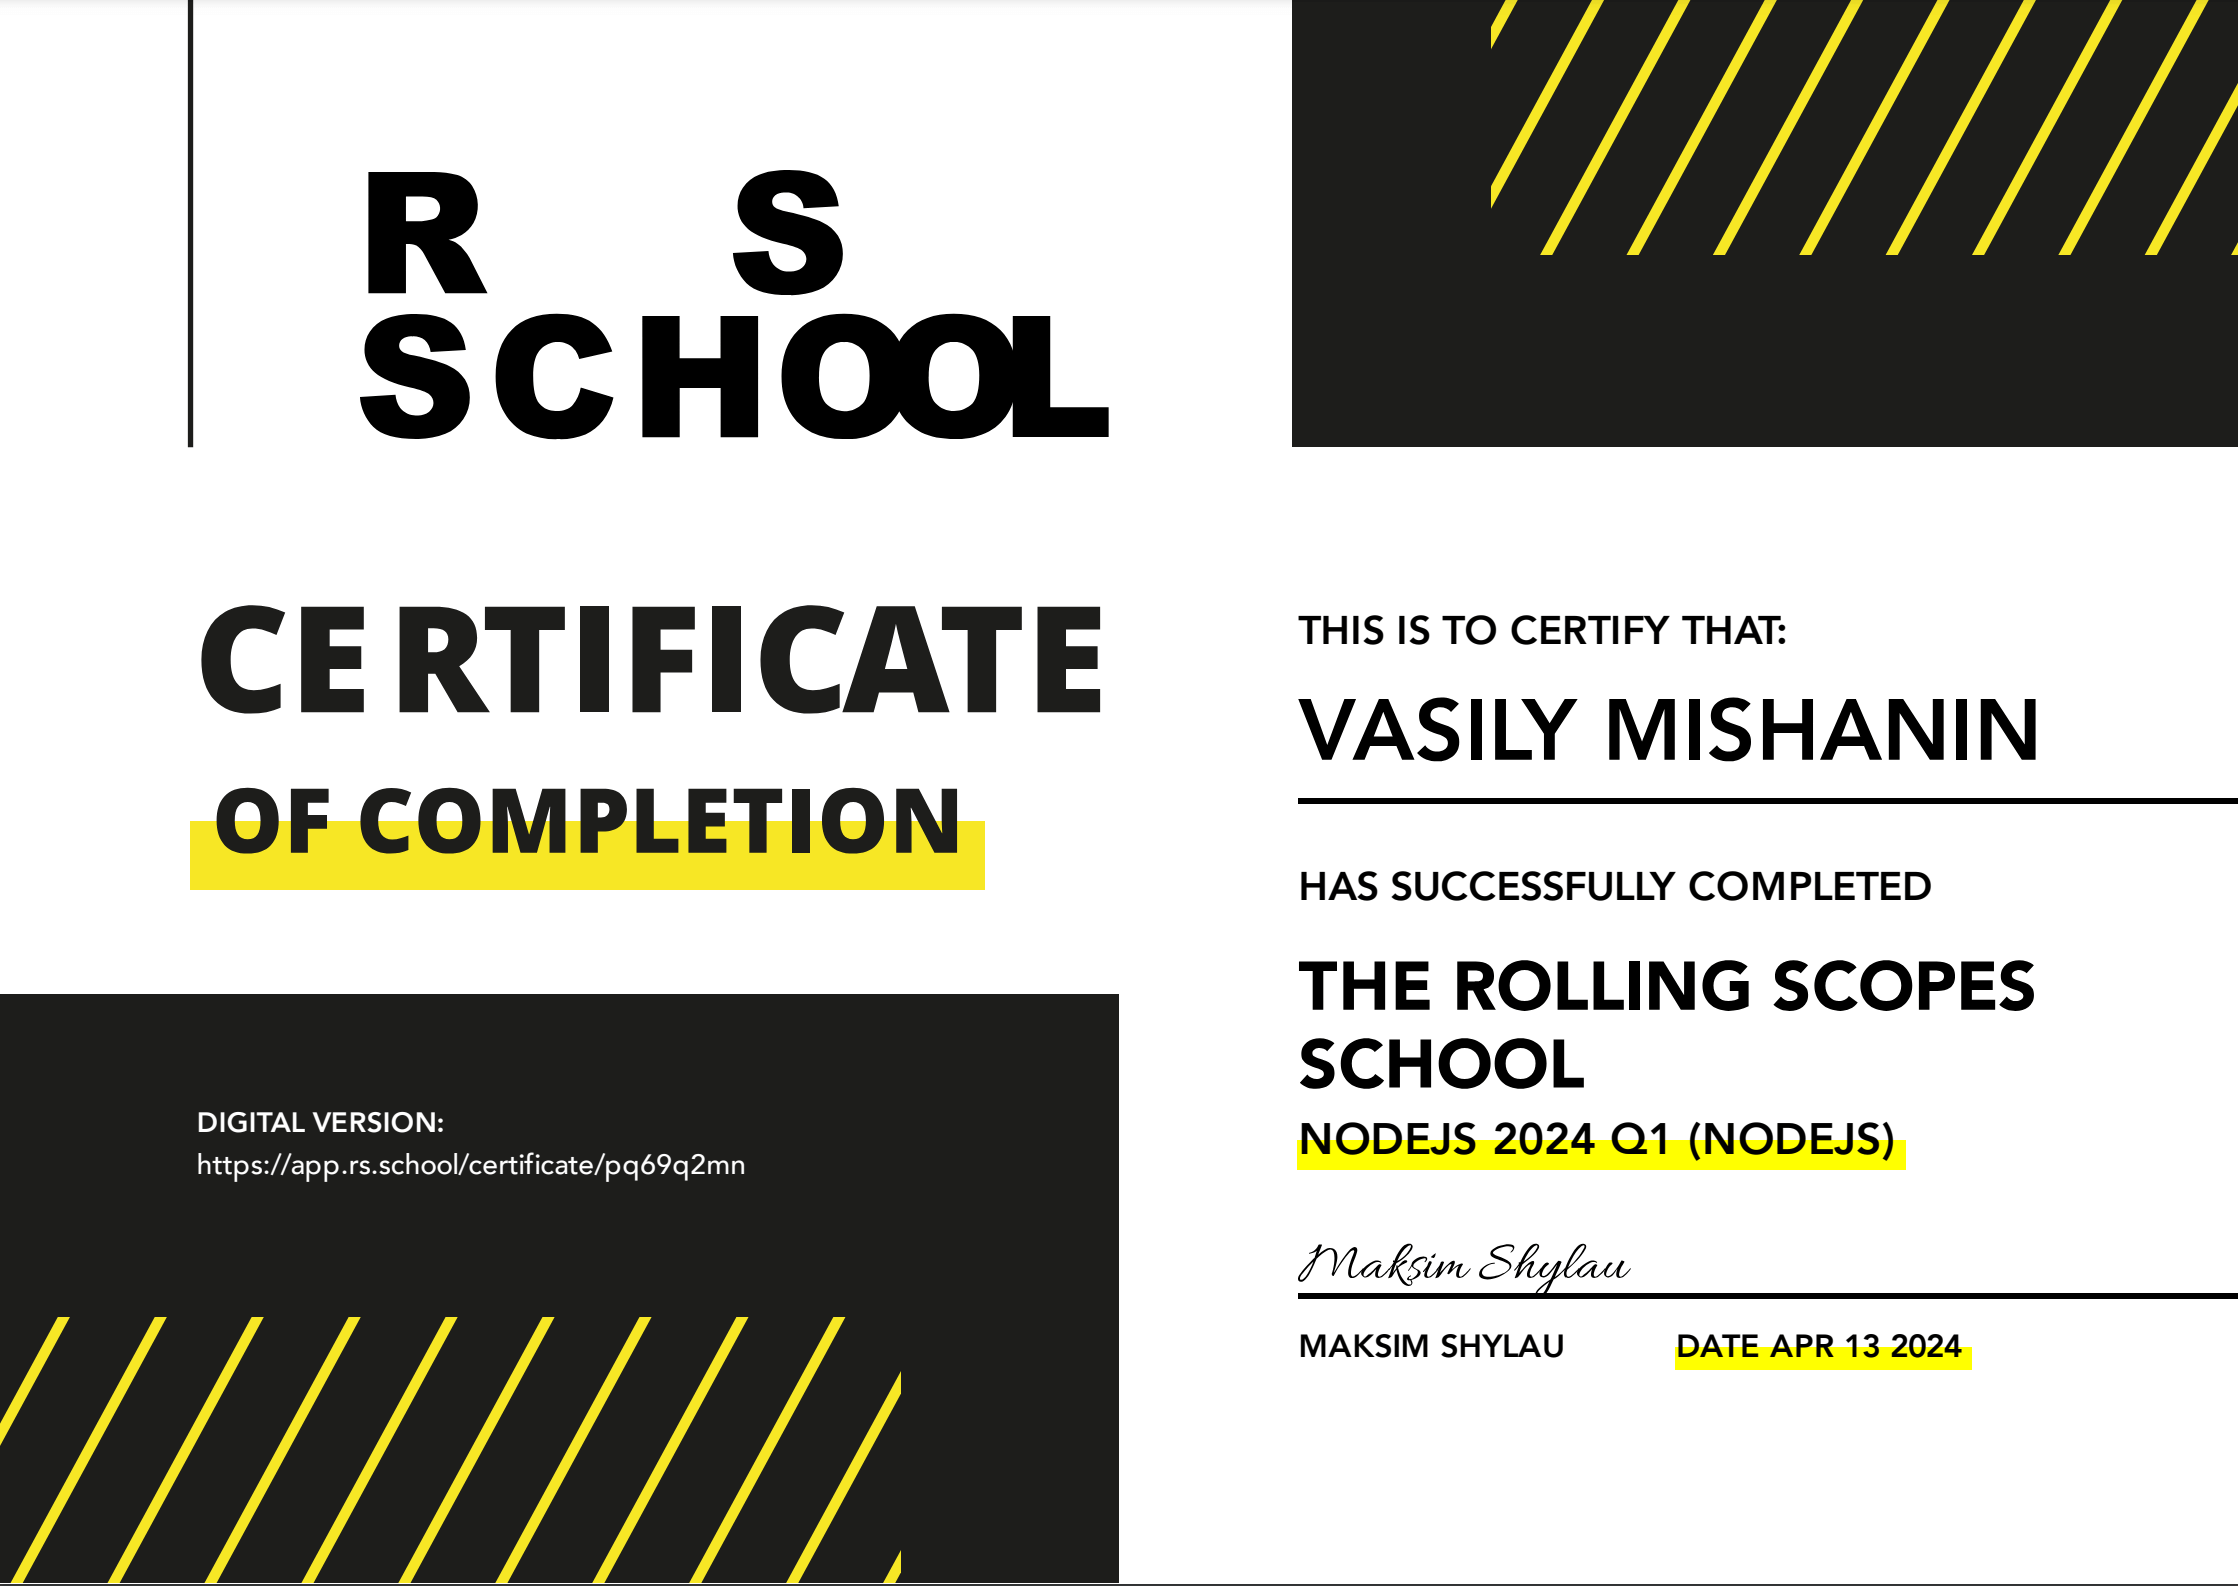
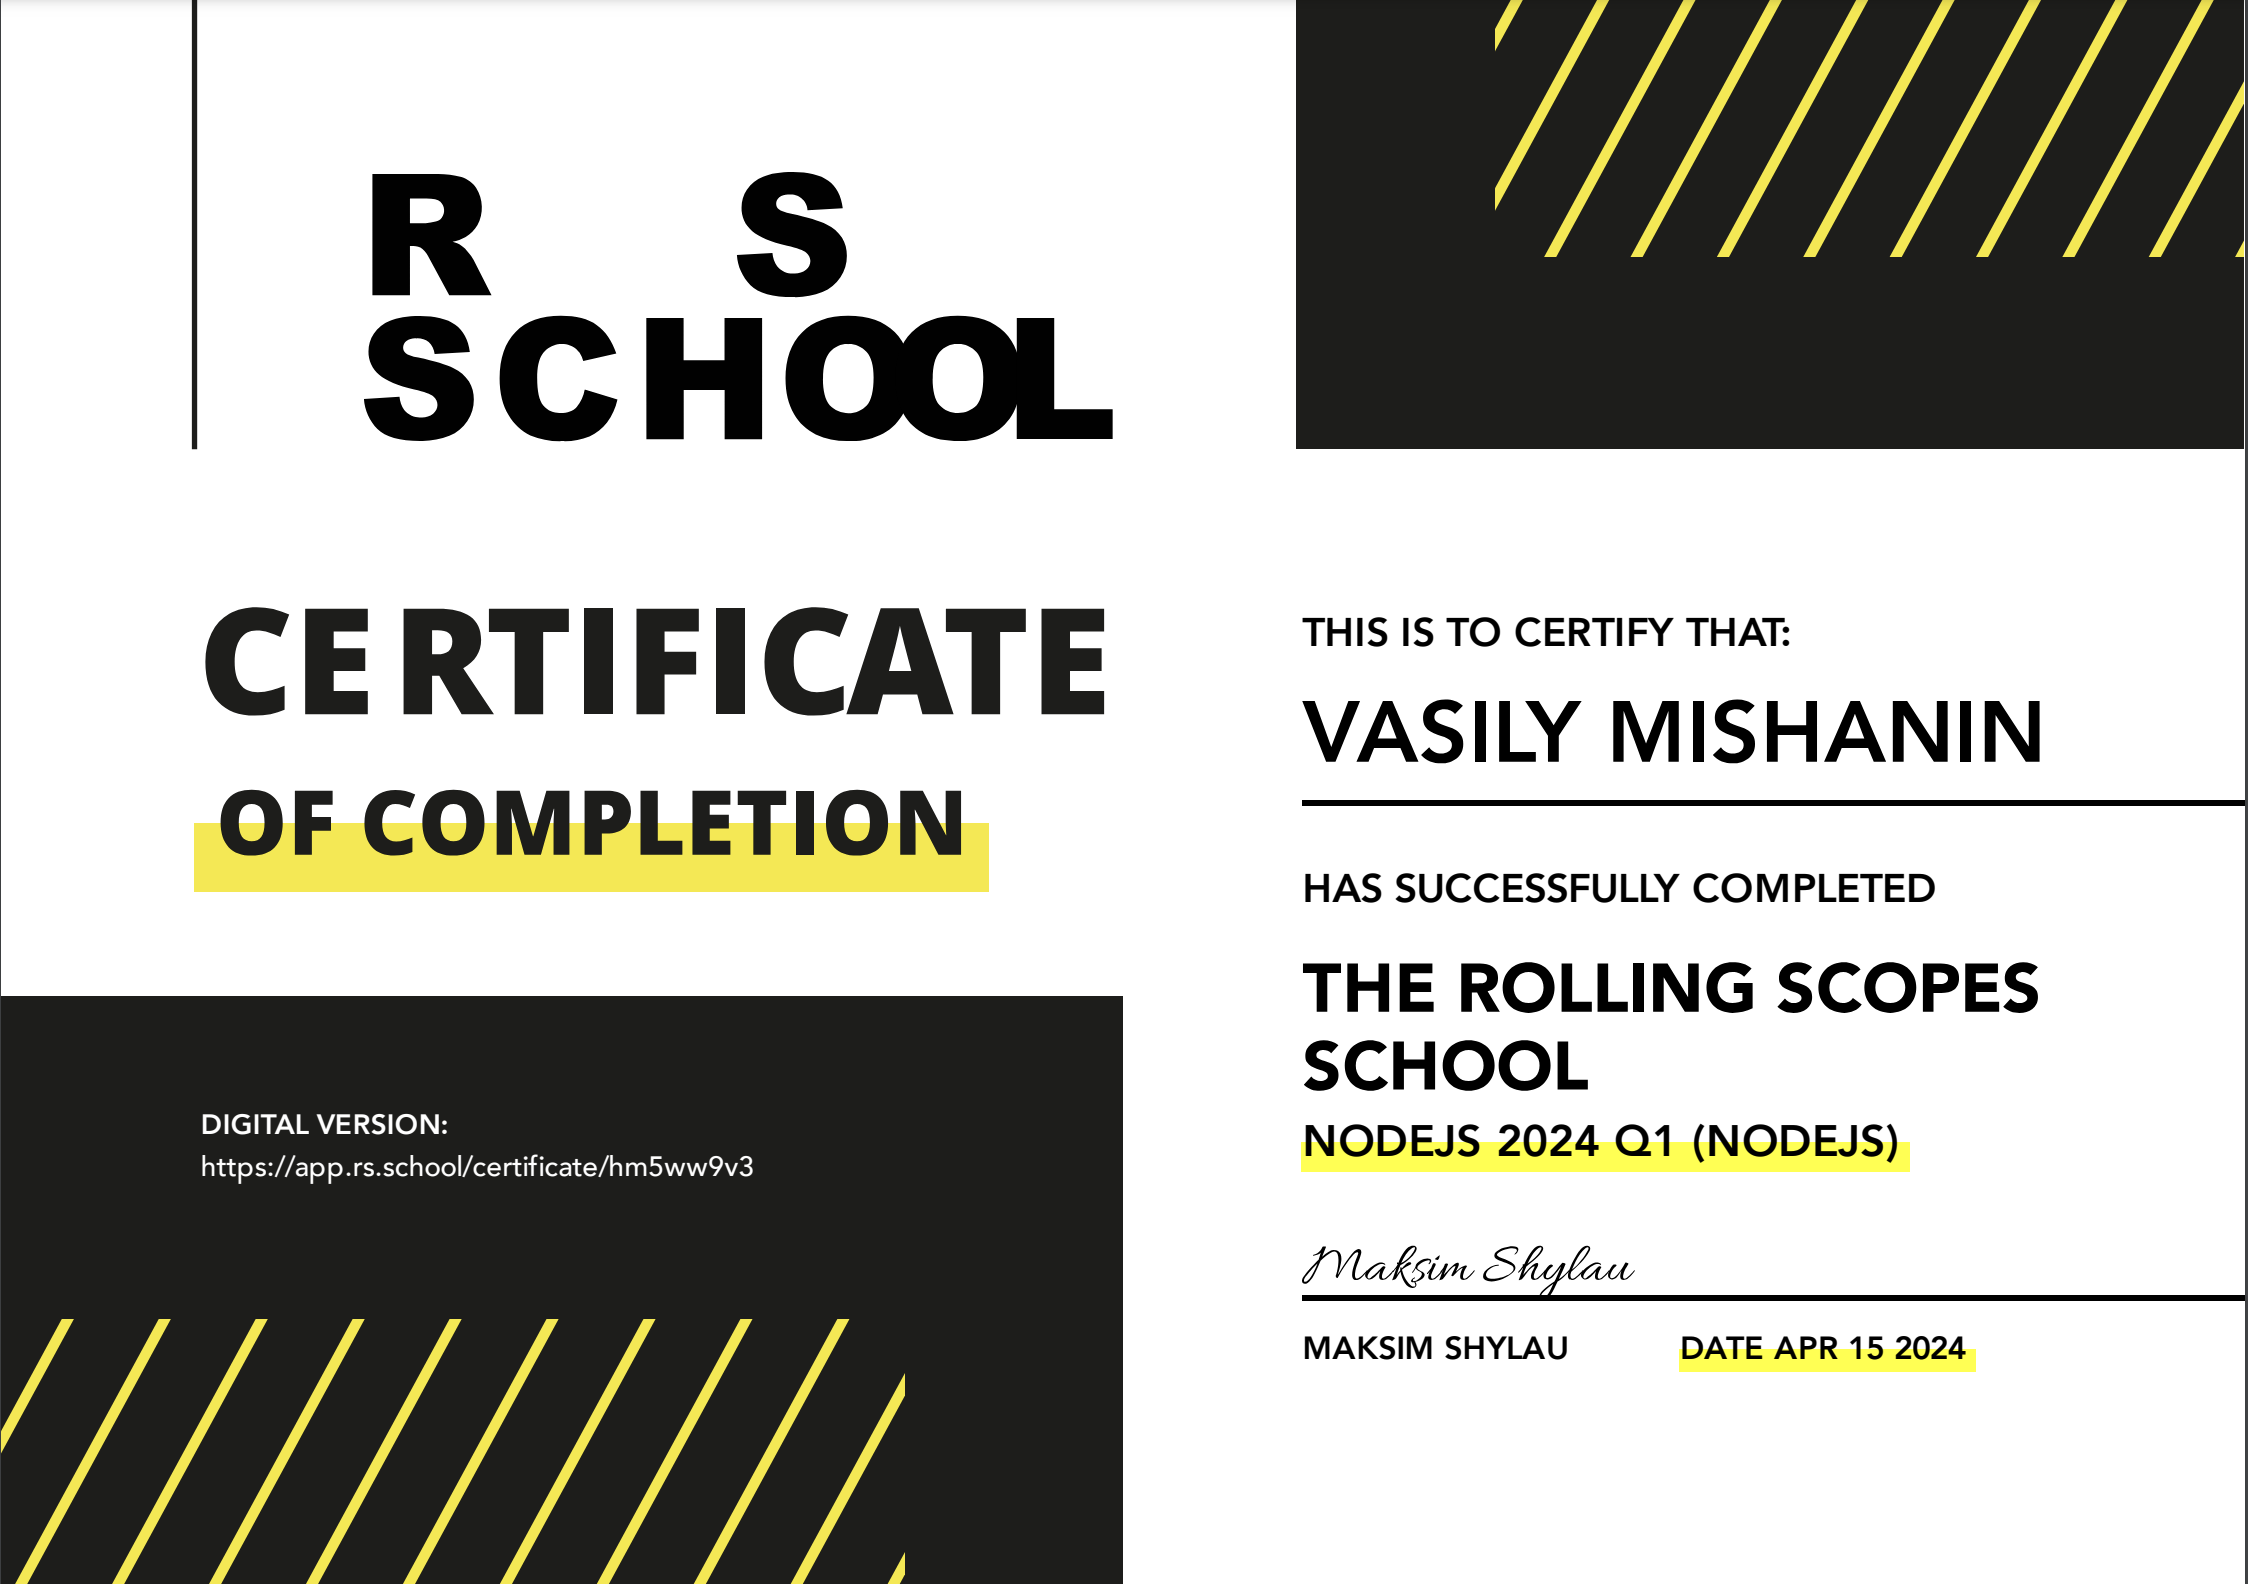
fix/certificate

diff --git a/src/model/data_certifications.ts b/src/model/data_certifications.ts
@@ -85,11 +85,11 @@ export const certifications: Certification[] = [
     link: 'https://app.rs.school/certificate/xgadocop',
   },
   {
-    id: '20240413',
+    id: '20240415',
     image: './images/certificate_node_developer_rss.png',
     text: 'NODE JS 2024 Q1',
     description:
       'Comprehensive course includes Node.js, WebSockets basics, GraphQL basics and final project on Nest.js',
-    link: 'https://app.rs.school/certificate/pq69q2mn',
+    link: 'https://app.rs.school/certificate/hm5ww9v3',
   },
 ];
